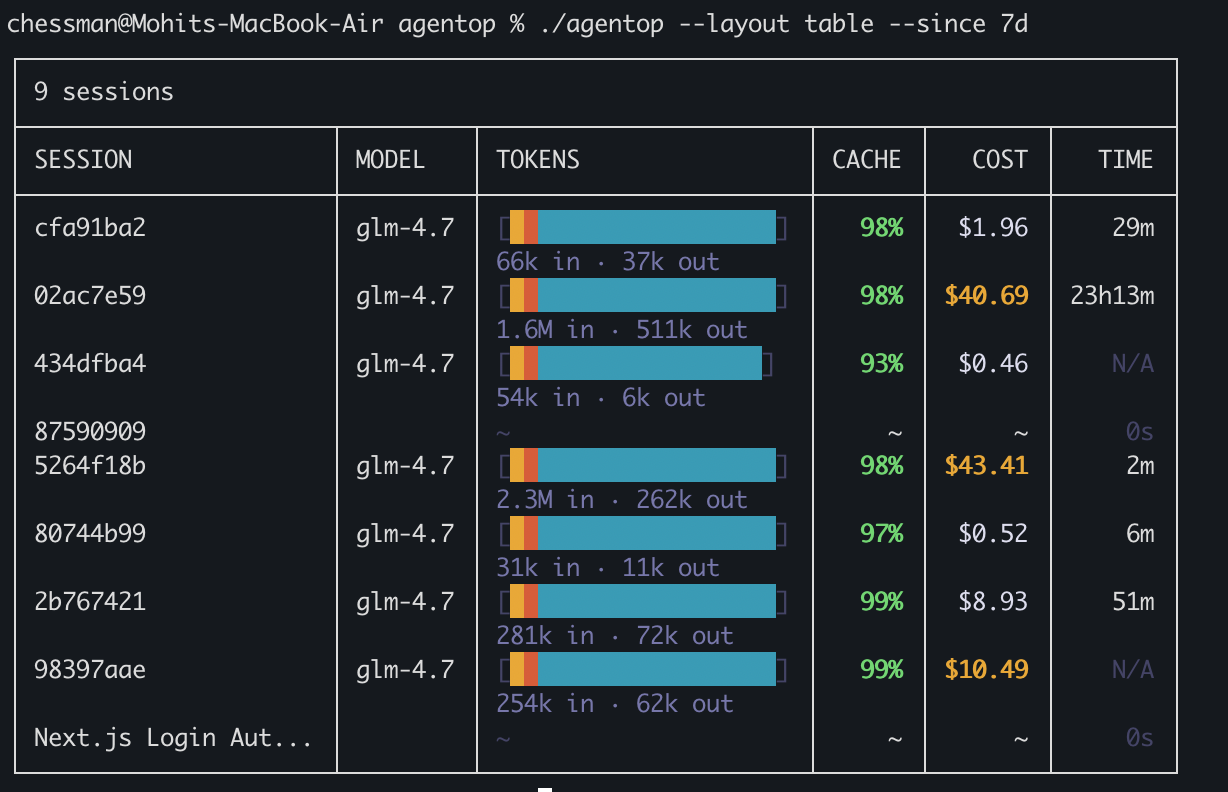
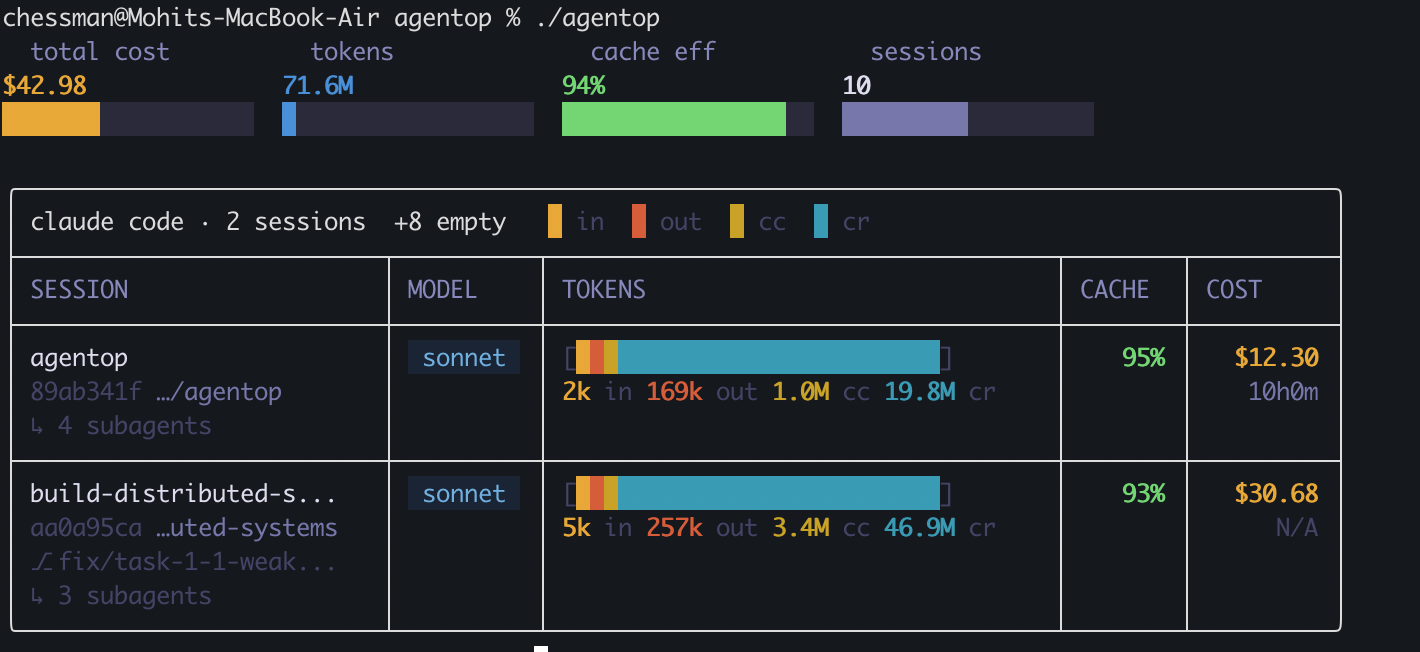
readme update

diff --git a/README.md b/README.md
@@ -55,7 +55,7 @@ $ agentop --layout table
 
 ## Features
 
-- **duf-style grid layout**: Clean column-separated table with session, model, token bar, cache efficiency, and cost
+- **Clean-style grid layout**: Clean column-separated table with session, model, token bar, cache efficiency, and cost
 - **Color-coded token bar**: Amber=input, coral=output, yellow=cache-create, teal=cache-read — matches the breakdown
 - **Empty session filtering**: Zero-token sessions are hidden with a count shown in the title
 - **Multiple Layouts**: Default panel view or compact table layout with `--layout table`
@@ -176,7 +176,7 @@ The assistant UI shows you a chat log. It does not show you token breakdowns, ca
 ## Roadmap
 
 - [x] Claude Code support
-- [x] duf-style grid UI with column separators
+- [x] Clean-style grid UI with column separators
 - [x] Homebrew distribution
 - [ ] AUR / Nix / Scoop packages
 - [ ] Codex CLI support
